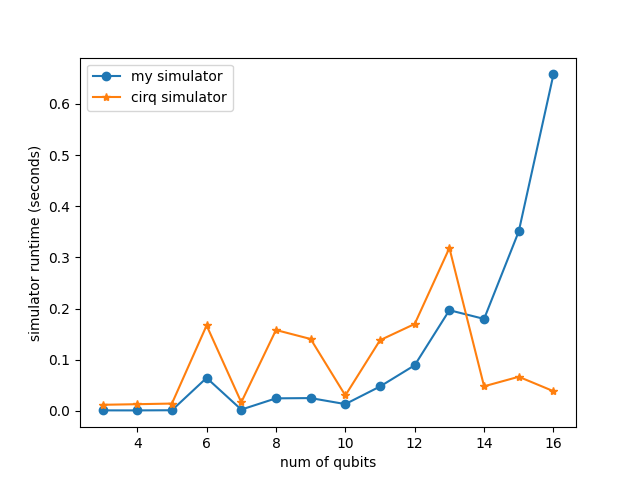
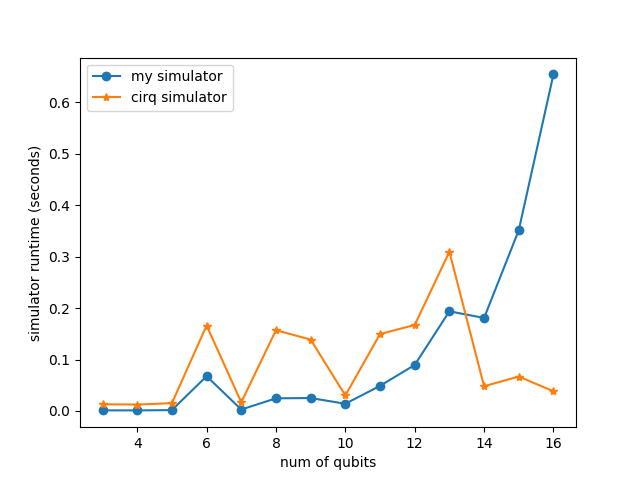
update

diff --git a/test_simulators.py b/test_simulators.py
@@ -3,10 +3,13 @@ import numpy as np
 import cirq
 from cirq.contrib.qasm_import import circuit_from_qasm
 from pathlib import Path
+import time
+import matplotlib.pyplot as plt
 
 # Import your simulate function here.
 # cs238 can be a file, a folder with an __init__.py file,
 from cs238 import simulate
+from cs238 import get_num_qubits
 
 
 def cirq_simulate(qasm_string: str) -> list:
@@ -46,15 +49,63 @@ def compare(state_vector, cirq_state_vector):
 qasm_dir = Path(sys.argv[1])
 assert qasm_dir.is_dir()
 
+total = 0
+correct = 0
+my_time_list = []
+cirq_time_list = []
+ns = []
+
 # iterate the qasm files in the directory
 for qasm_file in qasm_dir.glob("**/*.qasm"):
+    total += 1
     # read the qasm file
     with open(qasm_file, "r") as f:
         qasm_string = f.read()
+    print(qasm_file)
 
+    num_qubits = get_num_qubits(qasm_string)
+    start1 = time.time()
     # run your simulate function on the qasm string
     state_vector = simulate(qasm_string)
+    end1 = time.time()
+    my_time = end1-start1
+    print(f"my simulator finished in {my_time} seconds")
+    # print("state_vector:", state_vector)
+    # print('\n')
     # run cirq's simulator on the qasm string
+    start2 = time.time()
     cirq_state_vector = cirq_simulate(qasm_string)
+    end2 = time.time()
+    cirq_time = end2-start2
+    print(f"cirq simulator finished in {cirq_time} seconds")
+    # print(cirq_state_vector)
+    # print('\n')
     # compare the results!
     print(compare(state_vector, cirq_state_vector))
+    flag = compare(state_vector, cirq_state_vector)
+    if flag:
+        correct += 1
+
+    ns.append(num_qubits)
+    my_time_list.append(my_time)
+    cirq_time_list.append(cirq_time)
+
+print("\nTotal {} benchmark, {} are correct, grade is {:.2f}%!".format(total, correct, (correct/total*100)))
+
+
+# plot a diagram that maps n to execution time
+# print(ns)
+# print(my_time_list)
+new = zip(*sorted(zip(ns, my_time_list, cirq_time_list)))
+x_axis, y1_axis, y2_axis = [list(x) for x in new]
+# print("num of qubits: ", x_axis)
+# print("my simulator time: ", y1_axis)
+# print("cirq simulator time: ", y2_axis)
+fig = plt.figure()
+plt.plot(x_axis, y1_axis, "o-", label="my simulator")
+plt.plot(x_axis, y2_axis, "*-", label="cirq simulator")
+plt.xlabel("num of qubits")
+plt.ylabel("simulator runtime (seconds)")
+plt.legend()
+plt.savefig("simulator_time.png")
+plt.show()
